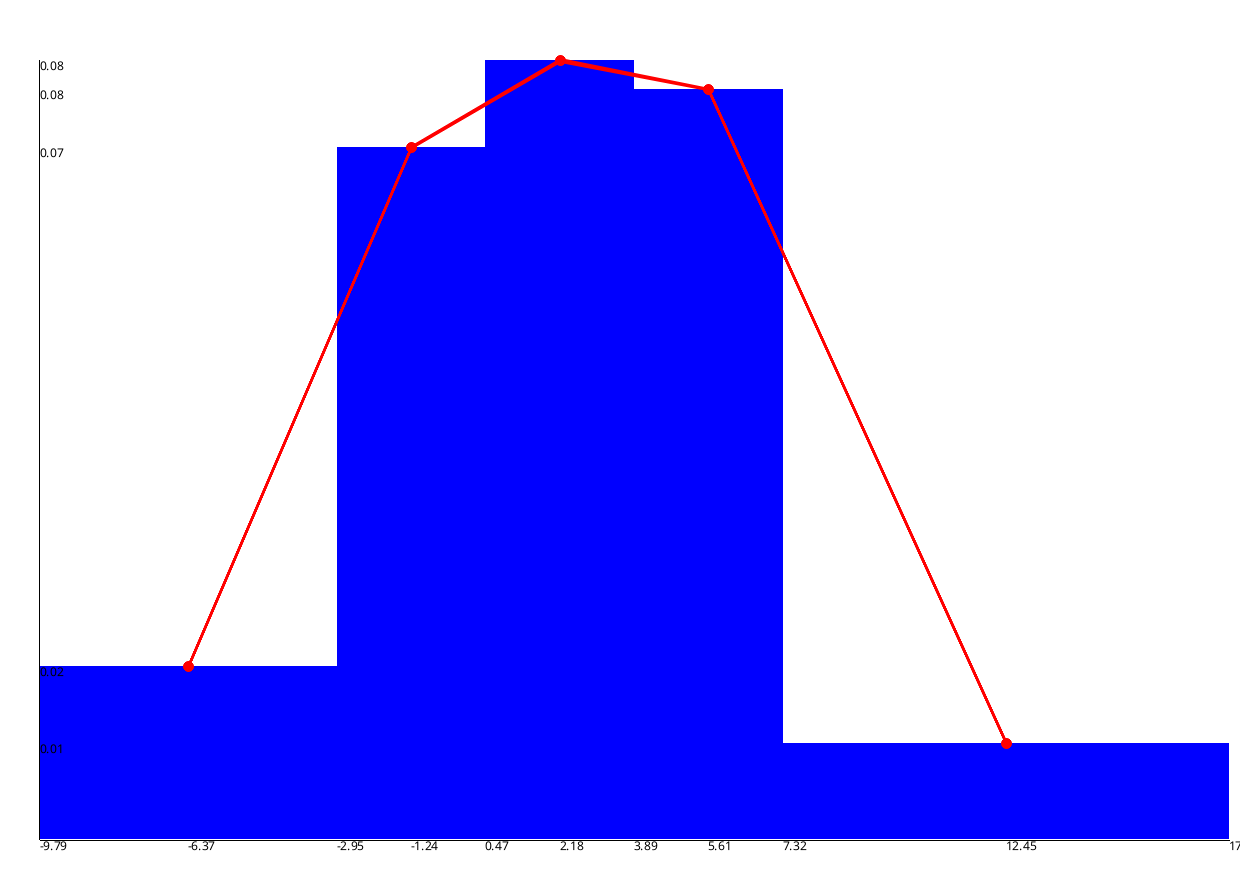
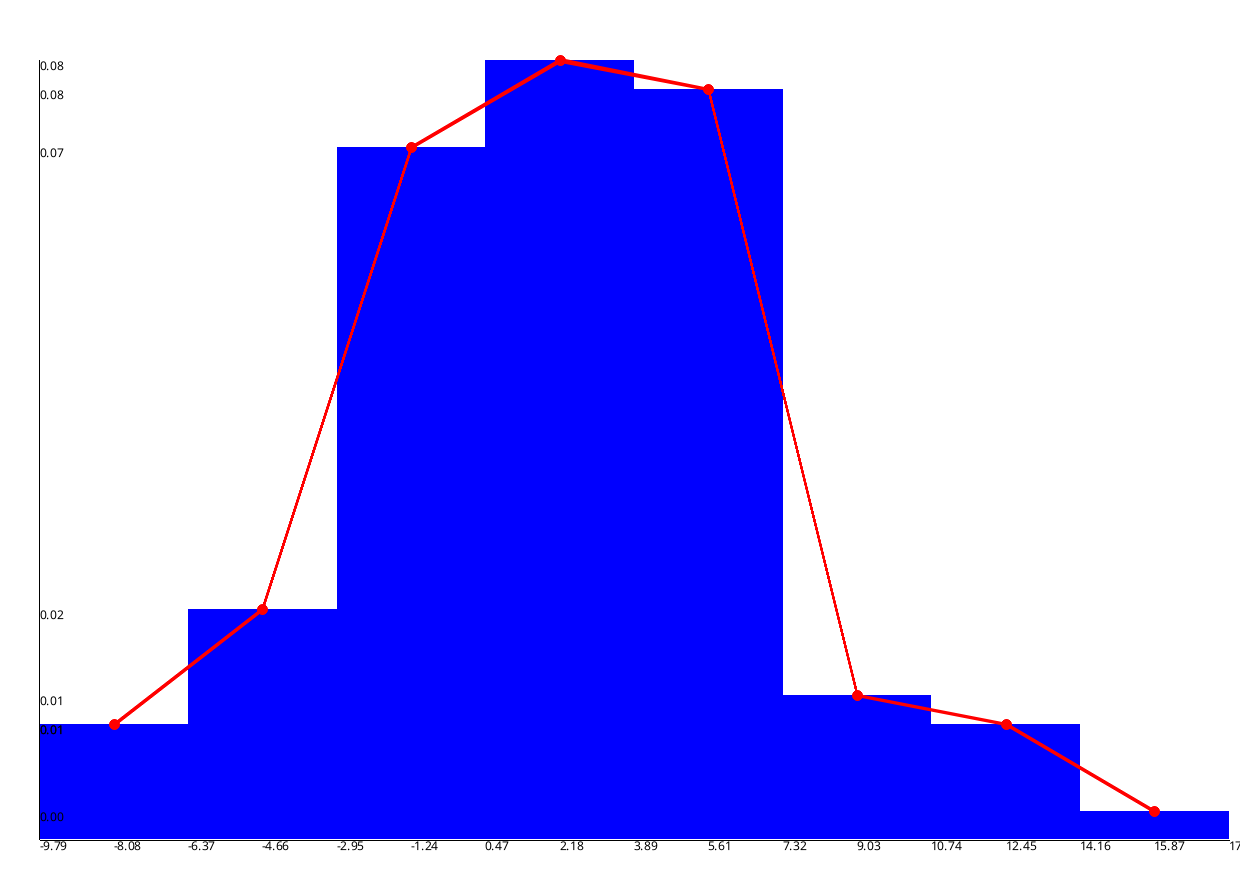
some ch

diff --git a/src/main.rs b/src/main.rs
@@ -36,9 +36,14 @@ fn main() -> Result<(), Box<dyn std::error::Error>>{
     utils::print_intervals(&merged_intervals, &merged_frequencies, &new_rel_frequencies);
 
     // Визуализация
-    let heights = calculate::calculate_histogram_heights(&merged_intervals, &new_rel_frequencies);
-    let midpoints = calculate::calculate_interval_midpoints(&merged_intervals);
-    graphix::plot_histogram_and_polygon(&heights, &merged_intervals, &midpoints)?;
+    // (тут странно)
+    // let heights = calculate::calculate_histogram_heights(&merged_intervals, &new_rel_frequencies);
+    // let offset_midpoints = calculate::calculate_interval_midpoints(&merged_intervals);
+    // graphix::plot_histogram_and_polygon(&heights, &merged_intervals, &offset_midpoints)?;
+
+    let old_hs = calculate::calculate_histogram_heights(&intervals, &rel_frequencies);
+    let midpoints = calculate::calculate_interval_midpoints(&intervals);
+    graphix::plot_histogram_and_polygon(&old_hs, &intervals, &midpoints)?;
 
     Ok(())
 }
